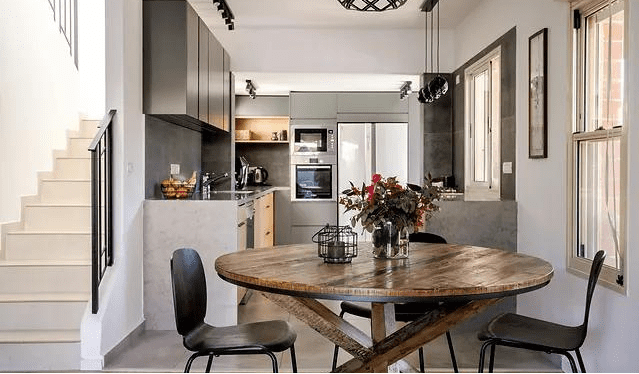
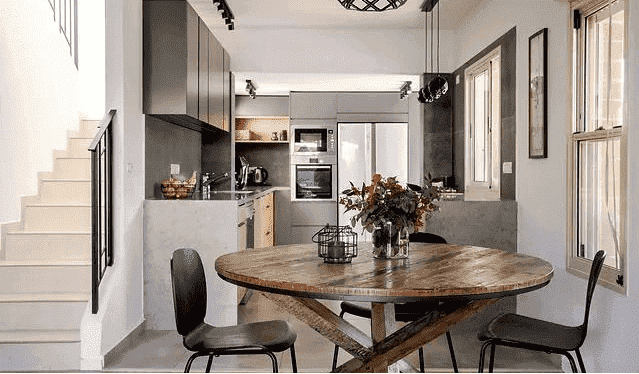
file size redused and img path changed

diff --git a/index.html b/index.html
@@ -20,7 +20,7 @@
                 <div class="first__title">THE WHITE HOUSE</div>
                 <div class="first__text text">РЕМОНТ КВАРТИР ПОД КЛЮЧ В ИЗРАИЛЕ</div>
                 <div class="first__square1 square"></div>
-                <img src="assets/1.png" class="first__img">
+                <img src="assets/1.jpg" class="first__img">
                 <div class="first__square2 square"></div>
             </section> 
             
@@ -60,7 +60,7 @@
                 <div class="divider square"></div>
                 <div class="founder__square square"></div>
                 <div class="founder__body body">
-                    <img src="./assets/2.png" alt="founder" class="founder__photo">
+                    <img src="./assets/2.jpg" alt="founder" class="founder__photo">
                     <div class="text__conteiner">
                         <div class="founder__title block-title">ОБРАЩЕНИЕ ОСНОВАТЕЛЯ</div>
                         <div class="founder__text text">    &emsp; &emsp;«Привет, друг! Меня зовут Рони Мукманов и я 
@@ -86,7 +86,7 @@
                 <div class="divider square"></div>
                 <div class="styles__body body">
                     <div class="styles__sqare1 square"></div>
-                    <img src="./assets/3.png" alt="" class="styles__img">
+                    <img src="./assets/3.jpg" alt="" class="styles__img">
                     <div class="styles__sqare2 square"></div>
                     <div class="styles__title block-title">НАШИ НАПРИВЛЕНИЯ СТИЛЯ</div>
                     <div class="styles__text text"> В современном дизайне интерьеров мы  
@@ -121,13 +121,13 @@
                     </div>
                     <div class="your-style__sqare2 square"></div>
                     <div class="your-style__photo1">
-                        <img src="./assets/4.png" alt="" class="your-style__photo1">
+                        <img src="./assets/4.jpg" alt="" class="your-style__photo1">
                     </div>
                     <div class="your-style__photo2">
-                        <img src="./assets/5.png" alt="" class="your-style__photo2">
+                        <img src="./assets/5.jpg" alt="" class="your-style__photo2">
                     </div>
                     <div class="your-style__photo3">
-                        <img src="./assets/6.png" alt="" class="your-style__photo3">
+                        <img src="./assets/6.jpg" alt="" class="your-style__photo3">
                     </div>
                     <div class="your-style__sqare3 square"></div>
                 </div>
@@ -139,10 +139,10 @@
                     <div class="discount__title block-title">ВАША ВЫГОДА</div>
                     <div class="discount__text text"> Довериться нам это получить лучший результат и сэкономить 20-30% времени 20-30% времени и денег на избежании ошибок и переделок.</div>
                     <div class="discount__square square"></div>
-                    <img src="./assets/7.png" alt="" class="discount__img1">
-                    <img src="./assets/8.png" alt="" class="discount__img2">
-                    <img src="./assets/9.png" alt="" class="discount__img3">
-                    <img src="./assets/10.png" alt="" class="discount__img4">
+                    <img src="./assets/7.jpg" alt="" class="discount__img1">
+                    <img src="./assets/8.jpg" alt="" class="discount__img2">
+                    <img src="./assets/9.jpg" alt="" class="discount__img3">
+                    <img src="./assets/10.jpg" alt="" class="discount__img4">
                 </div>
             </section>
 
@@ -150,7 +150,7 @@
                 <div class="divider square"></div>
                 <div class="stages__body body">
                     <div class="stages__title block-title">ЭТАПЫ РАБОТ</div>
-                    <img src="./assets/11.png" alt="" class="stages__img">
+                    <img src="./assets/11.jpg" alt="" class="stages__img">
                     <div class="stages__text text">
                         Этап 1: 
                         Подготовка к ремонту
@@ -238,8 +238,8 @@
                 <div class="divider square"></div>
                 <div class="img-reviews__body body">
                     <div class="img-reviews__title block-title">НАШИ ОТЗЫВЫ</div>
-                    <img src="./assets/16.png" alt="" class="img-reviews__img-chat img-reviews-chat1">
-                    <img src="./assets/17.png" alt="" class="img-reviews__img-chat1 img-reviews-chat2">
+                    <img src="./assets/16.jpg" alt="" class="img-reviews__img-chat img-reviews-chat1">
+                    <img src="./assets/17.jpg" alt="" class="img-reviews__img-chat1 img-reviews-chat2">
                     <div class="reviews-square square"></div>
                 </div>
             </section>
@@ -248,8 +248,8 @@
                 <div class="divider square"></div>
                 <div class="img-reviews__body body">
                     <div class="img-reviews__title block-title">НАШИ ОТЗЫВЫ</div>
-                    <img src="./assets/18.png" alt="" class="img-reviews__img-chat img-reviews-chat3">
-                    <img src="./assets/19.png" alt="" class="img-reviews__img-chat1 img-reviews-chat4">
+                    <img src="./assets/18.jpg" alt="" class="img-reviews__img-chat img-reviews-chat3">
+                    <img src="./assets/19.jpg" alt="" class="img-reviews__img-chat1 img-reviews-chat4">
                     <div class="reviews-square square"></div>
                     </div>
             </section>
@@ -258,8 +258,8 @@
                 <div class="divider square"></div>
                 <div class="img-reviews__body body">
                 <div class="img-reviews__title block-title">НАШИ ОТЗЫВЫ</div>
-                <img src="./assets/20.png" alt="" class="img-reviews__img-chat img-reviews-chat5">
-                <img src="./assets/21.png" alt="" class="img-reviews__img-chat1 img-reviews-chat6">
+                <img src="./assets/20.jpg" alt="" class="img-reviews__img-chat img-reviews-chat5">
+                <img src="./assets/21.jpg" alt="" class="img-reviews__img-chat1 img-reviews-chat6">
                 <div class="reviews-square square"></div>
                 </div>
             </section>
@@ -267,7 +267,7 @@
             <section class="special">
                 <div class="divider square"></div>
                     <div class="special__body body">
-                    <img src="./assets/22.png" alt="" class="special__img">
+                    <img src="./assets/22.jpg" alt="" class="special__img">
                     <div class="special__title block-title">СПЕЦИАЛЬНОЕ ПРЕДЛОЖЕНИЕ</div>
                     <div class="special__text text">
                     ТОЛЬКО ДО КОНЦА ГОДА ДЕЙСТВУЕТ СПЕЦИАЛЬНОЕ
@@ -290,7 +290,7 @@
                 <div class="divider square"></div>
                 <div class="why-us__body">
                     <div class="why-us__title block-title">ПОЧЕМУ МЫ</div>
-                    <img src="./assets/23.png" alt="" class="why-us__img">
+                    <img src="./assets/23.jpg" alt="" class="why-us__img">
                     <div class="why-us__text text">
                         Мы гарантируем добросовестное 
                         обслуживание и персональный подход к
@@ -310,7 +310,7 @@
             <div class="divider square"></div>
             <div class="footer__body body">
                 <div class="footer__title block-title">КОНТАКТЫ:</div>
-                <img src="./assets/24.png" alt="" class="footer__img">
+                <img src="./assets/24.jpg" alt="" class="footer__img">
                 <div class="footer__contacts contacts">
                     <div class="contacts__whatsup whatsup">
                         <img src="./assets/25.png" alt="" class="whatsup__icon">
